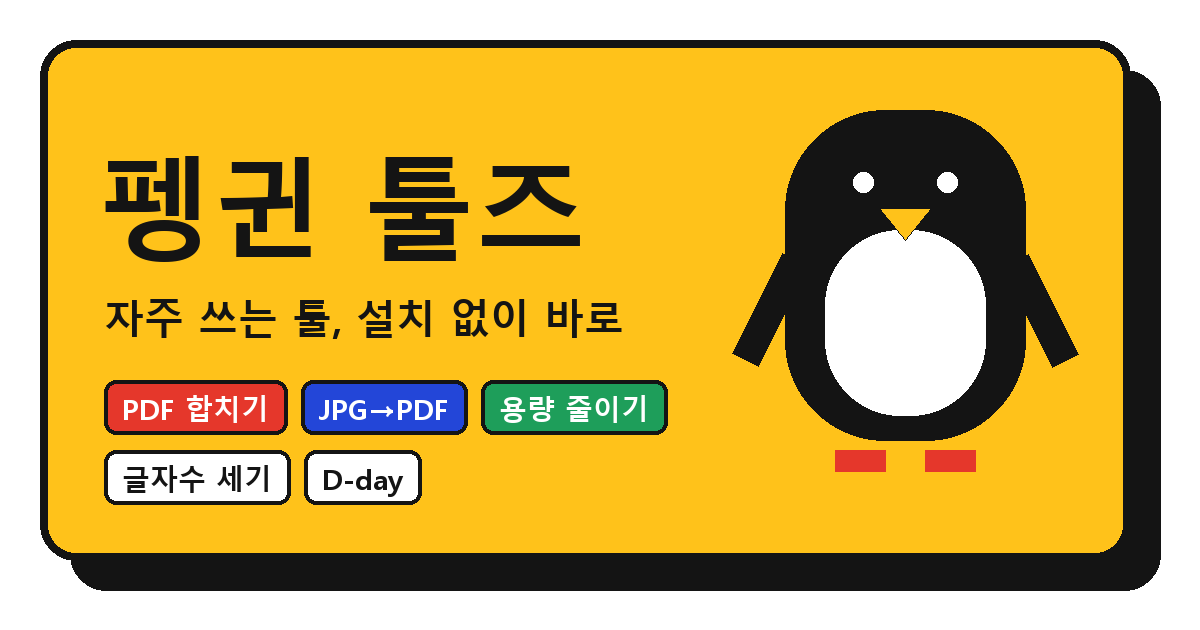
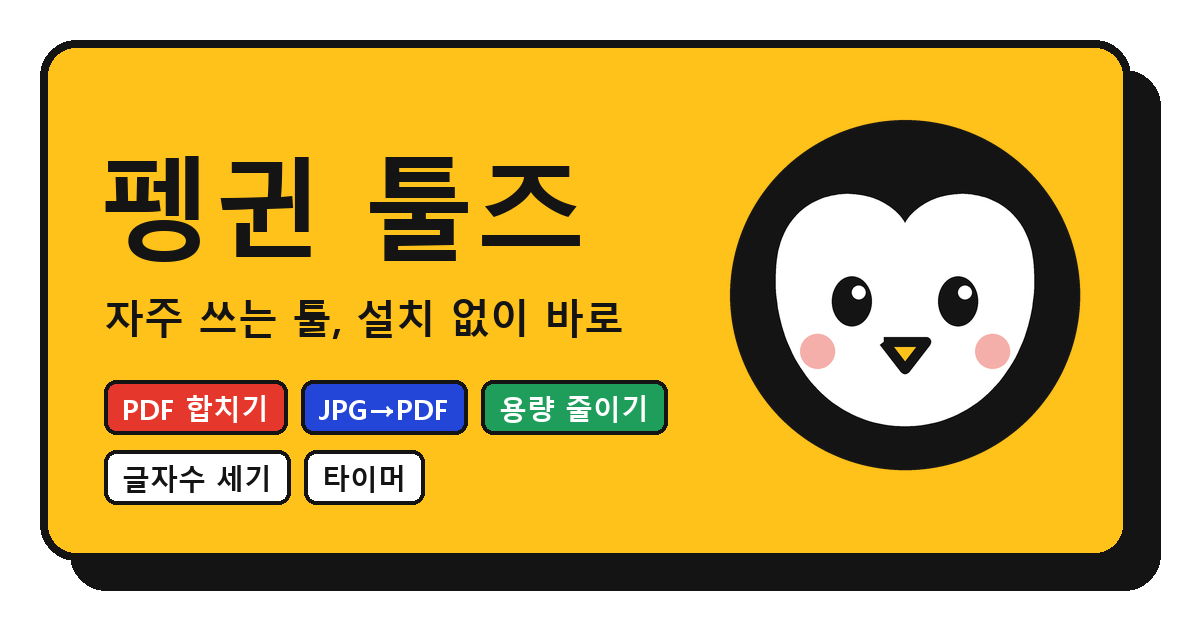
타이머·스톱워치 추가, 시간 서랍 신설, 새 펭귄 로고, 랜덤7942 연결
- /time/: 온라인 타이머(빠른 버튼, 알림음, 탭 제목 표시), 스톱워치(랩, 1/100초, 단축키)
- 새 펭귄 로고(헤더·파비콘·OG 이미지)
- 놀이터 「같이」 구역과 하단 「세화산업의 다른 서비스」에 랜덤7942 외부 링크
- [hidden] 전역 숨김 규칙(타이머 '알림 끄기'가 늘 보이던 문제)

Changed region(s): [[0.5858, 0.2413, 0.925, 0.754], [0.6783, 0.1508, 0.8325, 0.2413], [0.2467, 0.7238, 0.37, 0.7841]]

diff --git a/src/assets/t-time.js b/src/assets/t-time.js
@@ -1,0 +1,141 @@
+// 타이머 + 스톱워치. 경과 시간은 항상 Date.now() 기준(백그라운드 탭에서 setInterval이 느려져도 정확).
+// 소리는 WebAudio로 직접 만들고, 저장·전송하는 값은 없습니다.
+(function () {
+  const pad = (n, w = 2) => String(n).padStart(w, "0");
+  const toast = (m) => (window.NALGI && NALGI.toast ? NALGI.toast(m) : null);
+  const baseTitle = document.title;
+
+  // ---------- 공통: 화면 꺼짐 방지(Wake Lock) ----------
+  let lock = null, wantLock = false;
+  async function keepAwake(on) {
+    wantLock = on;
+    try {
+      if (on && !lock && "wakeLock" in navigator && document.visibilityState === "visible") {
+        lock = await navigator.wakeLock.request("screen");
+        lock.addEventListener("release", () => { lock = null; });
+      } else if (!on && lock) { await lock.release(); lock = null; }
+    } catch (e) { lock = null; } // 지원하지 않거나 거절되면 조용히 넘어감
+  }
+  document.addEventListener("visibilitychange", () => { if (wantLock && document.visibilityState === "visible") keepAwake(true); });
+
+  // ---------- 공통: 전체 화면 ----------
+  document.querySelectorAll("[data-fullscreen]").forEach((btn) => {
+    const target = btn.closest(".tk");
+    if (!document.fullscreenEnabled || !target) { btn.hidden = true; return; }
+    btn.addEventListener("click", () => (document.fullscreenElement ? document.exitFullscreen() : target.requestFullscreen()).catch(() => toast("전체 화면을 열 수 없어요")));
+    document.addEventListener("fullscreenchange", () => { btn.textContent = document.fullscreenElement ? "전체 화면 닫기" : "전체 화면"; });
+  });
+
+  // ---------- 공통: 알림음 (WebAudio로 직접 생성) ----------
+  let ac = null;
+  const audio = () => {
+    const AC = window.AudioContext || window.webkitAudioContext;
+    if (!AC) return null;
+    if (!ac) ac = new AC();
+    if (ac.state === "suspended") ac.resume();
+    return ac;
+  };
+  function beep(box) {
+    const a = audio();
+    box.dataset.beeps = String((+box.dataset.beeps || 0) + 1); // 확인용 횟수(화면에는 안 보임)
+    if (!a) return;
+    const t0 = a.currentTime;
+    [0, 0.18, 0.36].forEach((d, i) => {
+      const o = a.createOscillator(), g = a.createGain();
+      o.type = "square"; o.frequency.value = i === 2 ? 1175 : 880;
+      g.gain.setValueAtTime(0.0001, t0 + d);
+      g.gain.exponentialRampToValueAtTime(0.18, t0 + d + 0.02);
+      g.gain.exponentialRampToValueAtTime(0.0001, t0 + d + 0.15);
+      o.connect(g).connect(a.destination); o.start(t0 + d); o.stop(t0 + d + 0.16);
+    });
+  }
+
+  // ---------- 타이머 ----------
+  const tm = document.querySelector('[data-tool="timer"]');
+  if (tm) {
+    const disp = tm.querySelector(".clock"), state = tm.querySelector(".tm-state");
+    const H = tm.querySelector('[name="h"]'), M = tm.querySelector('[name="m"]'), S = tm.querySelector('[name="s"]');
+    const bStart = tm.querySelector("[data-start]"), bReset = tm.querySelector("[data-reset]"), bStop = tm.querySelector("[data-silence]");
+    let total = 0, left = 0, endAt = 0, running = false, tick = null, ring = null, ringCount = 0;
+    const fmt = (ms) => { const sec = Math.max(0, Math.ceil(ms / 1000)); const h = Math.floor(sec / 3600), m = Math.floor((sec % 3600) / 60), s = sec % 60; return h ? `${h}:${pad(m)}:${pad(s)}` : `${pad(m)}:${pad(s)}`; };
+    const inputMs = () => ((Math.max(0, +H.value || 0) * 3600) + (Math.max(0, +M.value || 0) * 60) + Math.max(0, +S.value || 0)) * 1000;
+    const setMode = (m) => { tm.dataset.state = m; state.textContent = { idle: "대기", run: "진행 중", pause: "일시정지", done: "끝!" }[m]; bStart.textContent = m === "run" ? "일시정지" : m === "pause" ? "다시 시작" : "시작"; };
+    const paint = () => {
+      const ms = running ? endAt - Date.now() : left;
+      disp.textContent = fmt(ms);
+      const bar = tm.querySelector(".tm-bar i"); if (bar) bar.style.width = total ? `${Math.min(100, (1 - ms / total) * 100)}%` : "0";
+      if (tm.dataset.state === "run" || tm.dataset.state === "pause") document.title = `${fmt(ms)} ${tm.dataset.state === "pause" ? "(멈춤) " : ""}— ${baseTitle}`;
+      if (running && ms <= 0) finish();
+    };
+    function start(ms) {
+      stopRing();
+      if (ms != null) { total = left = ms; }
+      if (left <= 0) { toast("시간을 먼저 정해 주세요"); return; }
+      audio(); // 사용자가 누른 순간에 소리 장치를 깨워 둠(모바일 자동 재생 제한 대응)
+      endAt = Date.now() + left; running = true; setMode("run");
+      clearInterval(tick); tick = setInterval(paint, 200);
+      setTimeout(paint, left + 5); // 백그라운드에서도 끝나는 순간에 한 번 더 확인
+      keepAwake(true); paint();
+    }
+    function pause() { left = Math.max(0, endAt - Date.now()); running = false; clearInterval(tick); setMode("pause"); keepAwake(false); paint(); }
+    function reset() { running = false; clearInterval(tick); stopRing(); left = total = inputMs(); setMode("idle"); keepAwake(false); document.title = baseTitle; paint(); }
+    function finish() {
+      running = false; clearInterval(tick); left = 0; setMode("done");
+      disp.textContent = "00:00"; document.title = `끝! — ${baseTitle}`;
+      tm.classList.add("ringing"); bStop.hidden = false; ringCount = 0;
+      beep(tm); ring = setInterval(() => { beep(tm); if (++ringCount >= 9) stopRing(true); }, 1000); // 약 10초 울리고 멈춤
+      keepAwake(false);
+    }
+    function stopRing(keepDone) { clearInterval(ring); ring = null; tm.classList.remove("ringing"); bStop.hidden = true; if (!keepDone && tm.dataset.state === "done") document.title = baseTitle; }
+    bStart.addEventListener("click", () => { const st = tm.dataset.state; if (st === "run") pause(); else if (st === "pause") start(); else start(inputMs()); });
+    bReset.addEventListener("click", reset);
+    bStop.addEventListener("click", () => { stopRing(); setMode("idle"); left = total = inputMs(); paint(); });
+    tm.querySelectorAll("[data-quick]").forEach((b) => b.addEventListener("click", () => {
+      const min = +b.dataset.quick; H.value = Math.floor(min / 60); M.value = min % 60; S.value = 0; start(min * 60000);
+    }));
+    [H, M, S].forEach((el) => el.addEventListener("input", () => { if (tm.dataset.state === "idle" || tm.dataset.state === "done") { stopRing(); setMode("idle"); left = total = inputMs(); paint(); } }));
+    tm.querySelector("form").addEventListener("submit", (e) => { e.preventDefault(); bStart.click(); });
+    setMode("idle"); left = total = inputMs(); paint();
+  }
+
+  // ---------- 스톱워치 ----------
+  const sw = document.querySelector('[data-tool="stopwatch"]');
+  if (sw) {
+    const disp = sw.querySelector(".clock"), list = sw.querySelector(".laps tbody"), lapsBox = sw.querySelector(".laps");
+    const bGo = sw.querySelector("[data-go]"), bLap = sw.querySelector("[data-lap]"), bReset = sw.querySelector("[data-reset]");
+    let acc = 0, t0 = 0, running = false, raf = 0, laps = [];
+    const now = () => acc + (running ? Date.now() - t0 : 0);
+    const fmt = (ms) => { const cs = Math.floor(ms / 10), h = Math.floor(cs / 360000), m = Math.floor((cs % 360000) / 6000), s = Math.floor((cs % 6000) / 100), c = cs % 100; return `${h ? h + ":" : ""}${pad(m)}:${pad(s)}.${pad(c)}`; };
+    const paint = () => { disp.textContent = fmt(now()); if (running) raf = requestAnimationFrame(paint); };
+    const sync = () => { sw.dataset.state = running ? "run" : now() ? "pause" : "idle"; bGo.textContent = running ? "정지" : now() ? "계속" : "시작"; bLap.disabled = !running; bReset.disabled = running || !now(); };
+    const drawLaps = () => {
+      lapsBox.hidden = !laps.length;
+      const splits = laps.map((t, i) => t - (laps[i - 1] || 0));
+      const best = laps.length > 1 ? Math.min(...splits) : -1, worst = laps.length > 1 ? Math.max(...splits) : -1;
+      list.innerHTML = laps.map((t, i) => [i, t, splits[i]]).reverse()
+        .map(([i, t, d]) => `<tr class="${d === best ? "best" : d === worst ? "worst" : ""}"><th scope="row">${i + 1}</th><td>${fmt(d)}${d === best ? ' <em>최고</em>' : d === worst ? ' <em>최저</em>' : ""}</td><td>${fmt(t)}</td></tr>`).join("");
+    };
+    function toggle() {
+      if (running) { acc = now(); running = false; cancelAnimationFrame(raf); keepAwake(false); }
+      else { t0 = Date.now(); running = true; keepAwake(true); raf = requestAnimationFrame(paint); }
+      sync(); paint();
+    }
+    function lap() { if (!running) return; laps.push(now()); drawLaps(); }
+    function reset() { if (running) { running = false; cancelAnimationFrame(raf); keepAwake(false); } acc = 0; laps = []; drawLaps(); sync(); paint(); }
+    bGo.addEventListener("click", toggle); bLap.addEventListener("click", lap); bReset.addEventListener("click", reset);
+    document.addEventListener("keydown", (e) => {
+      if (e.ctrlKey || e.metaKey || e.altKey || e.repeat) return;
+      const tag = (e.target && e.target.tagName) || "";
+      if (/^(INPUT|TEXTAREA|SELECT)$/.test(tag) || (e.target && e.target.isContentEditable)) return;
+      if (e.code === "Space" || e.key === " ") {
+        // 스톱워치 버튼에 초점이 있어도 Space는 항상 시작/정지(마우스로 랩을 누른 뒤 Space가 랩으로 눌리는 것 방지). 다른 곳의 버튼·링크는 그대로 둠
+        if ((tag === "BUTTON" || tag === "A") && !sw.contains(e.target)) return;
+        e.preventDefault(); toggle();
+      }
+      else if (e.key === "l" || e.key === "L" || e.key === "ㅣ") { lap(); }
+      else if (e.key === "r" || e.key === "R" || e.key === "ㄱ") { reset(); }
+    });
+    document.addEventListener("keyup", (e) => { if ((e.code === "Space" || e.key === " ") && e.target && e.target.tagName === "BUTTON" && sw.contains(e.target)) e.preventDefault(); });
+    sync(); paint();
+  }
+})();

diff --git a/src/assets/style.css b/src/assets/style.css
@@ -591,3 +591,42 @@ details.opt summary{cursor:pointer;color:var(--cheong);font-weight:700;font-size
 .reco:last-child,.drawers-mini{margin-bottom:8px}
 @media(max-width:620px){.toolbox .row{min-height:48px;padding:7px 12px}.toolbox .row-body small{display:none}.toolbox .row-art{width:34px;height:34px}.toolbox .drawer{margin-bottom:14px}.hero-tools{padding:12px 0 16px}}
 .home-about{margin-bottom:8px}
+
+/* ===================== P2-16 타이머·스톱워치 / P2-17 다른 서비스 링크 ===================== */
+.t-time,.c-time{--tone:var(--heuk)}
+.tm-face{text-align:center;border:var(--bd);border-radius:16px;background:var(--soft);padding:14px 10px 16px}
+.tm-state{display:inline-block;font-size:13px;font-weight:800;color:var(--ink-2);background:var(--white);border:2px solid var(--ink);border-radius:99px;padding:1px 10px}
+.clock{font-family:"Pretendard Variable",Pretendard,system-ui,sans-serif;font-weight:900;font-variant-numeric:tabular-nums;letter-spacing:-.02em;font-size:clamp(56px,19vw,150px);line-height:1.05;margin:6px 0 2px;color:var(--ink)}
+.tm-bar{height:10px;border:2px solid var(--ink);border-radius:99px;overflow:hidden;background:var(--white);max-width:520px;margin:8px auto 0}
+.tm-bar i{display:block;height:100%;width:0;background:var(--nok)}
+.tm-form{display:grid;gap:12px}
+.tm-inputs{display:grid;grid-template-columns:repeat(3,1fr);gap:8px}
+.tm-inputs label{display:grid;gap:4px;text-align:center}
+.tm-inputs input{text-align:center;font-size:20px;font-weight:800}
+.tm-quick{display:flex;flex-wrap:wrap;gap:6px}
+.tm-quick .chip{font:inherit;font-weight:800;cursor:pointer}
+.tm-btns{display:flex;flex-wrap:wrap;gap:8px}
+.tm-btns .btn.big{flex:1 1 200px;width:auto}
+[hidden]{display:none!important}
+.tm-silence{background:var(--jeok)}
+[data-state="run"] .tm-state{background:var(--nok);color:var(--white)}
+[data-state="pause"] .tm-state{background:var(--hwang)}
+[data-state="done"] .tm-state{background:var(--jeok);color:var(--white)}
+.tk.ringing .tm-face{animation:ring .5s steps(2) infinite}
+@keyframes ring{0%{background:var(--jeok);color:var(--white)}50%{background:var(--soft)}}
+.tk.ringing .tm-face .clock{color:inherit}
+@media(prefers-reduced-motion:reduce){.tk.ringing .tm-face{animation:none;background:var(--jeok)}.tk.ringing .clock{color:var(--white)}}
+.laps tr.best td,.laps tr.best th{background:#e8f7ee}
+.laps tr.worst td,.laps tr.worst th{background:#ffe9e6}
+.laps em{font-style:normal;font-size:11.5px;font-weight:800;border:1.5px solid currentColor;border-radius:5px;padding:0 5px;margin-left:4px}
+.laps td{font-variant-numeric:tabular-nums}
+/* 전체 화면: 숫자만 크게 */
+.tk:fullscreen{background:var(--white);padding:4vh 4vw;display:flex;flex-direction:column;justify-content:center;overflow:auto}
+.tk:fullscreen .clock{font-size:min(24vw,40vh)}
+.tk:fullscreen .tk-next,.tk:fullscreen .safe{display:none}
+/* P2-17 외부 링크 행·하단 한 줄 */
+.ext-tag{font-style:normal;font-size:11px;font-weight:800;border:1.5px solid var(--ink);border-radius:5px;padding:0 5px;margin-left:4px;vertical-align:middle;color:var(--ink-2)}
+.site-footer .family{margin:0 0 8px;font-size:13.5px}
+.site-footer .family a{color:var(--ink);font-weight:700}
+.clock{white-space:nowrap}
+[data-tool="stopwatch"] .clock{font-size:clamp(40px,14.5vw,140px)}

diff --git a/scripts/make-og.py b/scripts/make-og.py
@@ -1,5 +1,7 @@
 # 공유 미리보기 이미지(og.png, 1200x630) 생성. 사이트명을 바꾸면 다시 실행: python scripts/make-og.py "새이름"
-# 디자인: 흰 바탕 + 두꺼운 검은 테두리 + 오방색 면(그라데이션 없음). 펭귄은 코드로 그린 단순 도형.
+# 디자인: 흰 바탕 + 두꺼운 검은 테두리 + 오방색 면(그라데이션 없음).
+# 펭귄은 사이트 로고(build.mjs LOGO, favicon.svg)와 같은 64×64 도안을 그대로 옮겨 그림:
+#   둥근 검은 머리, 하트 모양 윗선의 흰 얼굴, 하이라이트가 들어간 동그란 눈, 노란 부리, 연한 볼터치
 import sys, os
 from PIL import Image, ImageDraw, ImageFont
 name = sys.argv[1] if len(sys.argv) > 1 else "펭귄 툴즈"
@@ -10,28 +12,48 @@ d = ImageDraw.Draw(img)
 # 카드 면 + 그림자 면
 d.rounded_rectangle((70, 70, W - 40, H - 40), 36, fill=INK)
 d.rounded_rectangle((40, 40, W - 70, H - 70), 36, fill=YEL, outline=INK, width=8)
-# 펭귄 (오른쪽)
-cx, top = 905, 110
-d.line((cx - 110, top + 150, cx - 160, top + 250), fill=INK, width=30)           # 날개
-d.line((cx + 110, top + 150, cx + 160, top + 250), fill=INK, width=30)
-d.rounded_rectangle((cx - 120, top, cx + 120, top + 330), 100, fill=INK)          # 몸통
-d.rounded_rectangle((cx - 80, top + 120, cx + 80, top + 305), 75, fill=WHITE)    # 배
-d.ellipse((cx - 52, top + 62, cx - 32, top + 82), fill=WHITE)                    # 눈(점)
-d.ellipse((cx + 32, top + 62, cx + 52, top + 82), fill=WHITE)
-d.polygon([(cx - 26, top + 98), (cx + 26, top + 98), (cx, top + 130)], fill=YEL, outline=INK)  # 부리
-d.line((cx - 70, top + 350, cx - 20, top + 350), fill=RED, width=22)            # 발
-d.line((cx + 20, top + 350, cx + 70, top + 350), fill=RED, width=22)
+
+def cubic(p0, p1, p2, p3, n=48):
+    return [tuple((1 - t) ** 3 * a + 3 * (1 - t) ** 2 * t * b + 3 * (1 - t) * t * t * c + t ** 3 * e for a, b, c, e in zip(p0, p1, p2, p3)) for t in (i / n for i in range(1, n + 1))]
+
+def penguin(size):
+    """로고 SVG(viewBox 0 0 64 64)를 size 픽셀로 그린 RGBA 이미지. 4배로 그린 뒤 줄여 가장자리를 부드럽게 함"""
+    k = 4; S = size * k; f = S / 64
+    P = lambda x, y: (x * f, y * f)
+    im = Image.new("RGBA", (S, S), (0, 0, 0, 0)); g = ImageDraw.Draw(im)
+    circ = lambda cx, cy, r, col: g.ellipse((P(cx - r, cy - r), P(cx + r, cy + r)), fill=col)
+    circ(32, 32, 28, INK + (255,))                                            # 머리
+    # 얼굴: M32 20.5 c-4-7-19-7-20.5 6 C10 40 18.5 53 32 53 s22-13 20.5-26.5 C51 13.5 36 13.5 32 20.5z
+    pts = [(32, 20.5)]
+    pts += cubic((32, 20.5), (28, 13.5), (13, 13.5), (11.5, 26.5))
+    pts += cubic((11.5, 26.5), (10, 40), (18.5, 53), (32, 53))
+    pts += cubic((32, 53), (45.5, 53), (54, 40), (52.5, 26.5))
+    pts += cubic((52.5, 26.5), (51, 13.5), (36, 13.5), (32, 20.5))
+    g.polygon([P(x, y) for x, y in pts], fill=WHITE + (255,))
+    for cx in (23.5, 40.5):                                                   # 눈
+        g.ellipse((P(cx - 3.2, 33 - 4), P(cx + 3.2, 33 + 4)), fill=INK + (255,))
+    circ(24.6, 31.6, 1.1, WHITE + (255,)); circ(41.6, 31.6, 1.1, WHITE + (255,))  # 하이라이트
+    beak = [P(28.6, 39.5), P(35.4, 39.5), P(32, 43.9)]                          # 부리
+    g.polygon(beak, fill=YEL + (255,)); g.line(beak + [beak[0]], fill=INK + (255,), width=max(1, round(1.6 * f)), joint="curve")
+    cheek = Image.new("RGBA", (S, S), (0, 0, 0, 0)); cg = ImageDraw.Draw(cheek)   # 볼터치(불투명도 0.4)
+    for cx in (18, 46):
+        cg.ellipse((P(cx - 2.8, 41 - 2.8), P(cx + 2.8, 41 + 2.8)), fill=RED + (102,))
+    im = Image.alpha_composite(im, cheek)
+    return im.resize((size, size), Image.LANCZOS)
+
+peng = penguin(400)
+img.paste(peng, (705, 95), peng)
 F = "C:/Windows/Fonts/"
 big = ImageFont.truetype(F + "malgunbd.ttf", 112)
 mid = ImageFont.truetype(F + "malgunbd.ttf", 40)
 small = ImageFont.truetype(F + "malgunbd.ttf", 28)
 d.text((100, 130), name, font=big, fill=INK)
 d.text((104, 290), "자주 쓰는 툴, 설치 없이 바로", font=mid, fill=INK)
-chips = [("PDF 합치기", RED, WHITE), ("JPG→PDF", BLUE, WHITE), ("용량 줄이기", GRN, WHITE), ("글자수 세기", WHITE, INK), ("D-day", WHITE, INK)]
+chips = [("PDF 합치기", RED, WHITE), ("JPG→PDF", BLUE, WHITE), ("용량 줄이기", GRN, WHITE), ("글자수 세기", WHITE, INK), ("타이머", WHITE, INK)]
 x, y = 104, 380
 for label, bg, fg in chips:
     w = d.textlength(label, font=small) + 36
-    if x + w > 720: x, y = 104, y + 70
+    if x + w > 690: x, y = 104, y + 70
     d.rounded_rectangle((x, y, x + w, y + 54), 12, fill=bg, outline=INK, width=4)
     d.text((x + 18, y + 9), label, font=small, fill=fg)
     x += w + 14
